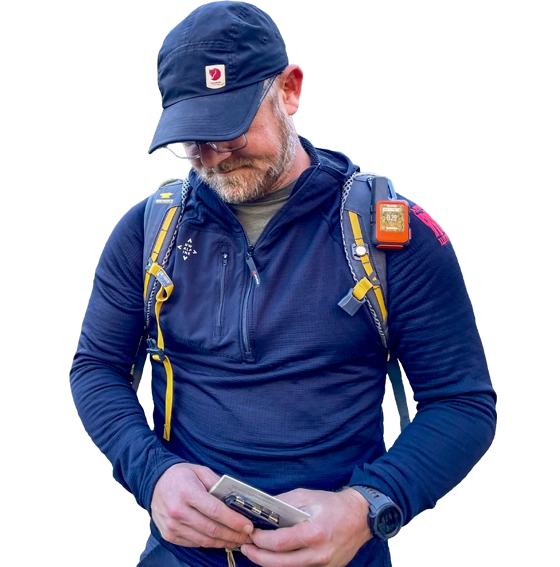
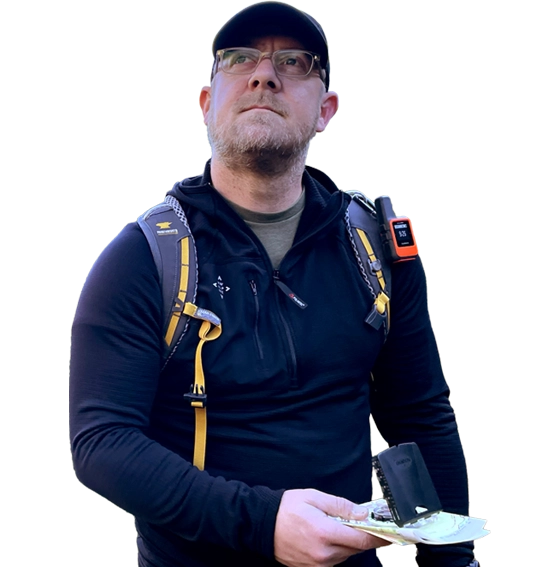
Home and hero adjustments

diff --git a/index.md b/index.md
@@ -2,8 +2,8 @@
 # Your home page. Each item under `sections:` is one section, in order.
 # Copy more from /blocks/, delete what you don't need, or add `hidden: true` to switch one off.
 layout: home
-title: Front-end developer
-description: Daniel Stephan, freelance front-end developer and designer. I design and code beautifully simple things.
+title: LandNav NW
+description: A land navigation school designed to empower people to rediscover the joy and freedom of self-reliant wayfinding.
 sections:
   - type: hero
     variant: portrait
@@ -11,7 +11,7 @@ sections:
     heading: |
       Find your way home
       with LandNav NW.
-    text: I help individuals and groups discover the freedom and independence of self-reliant wilderness navigation.
+    text: I help individuals and groups rediscover the freedom and independence of self-reliant wilderness navigation.
     action:
       label: Let's explore!
       url: /contact/
